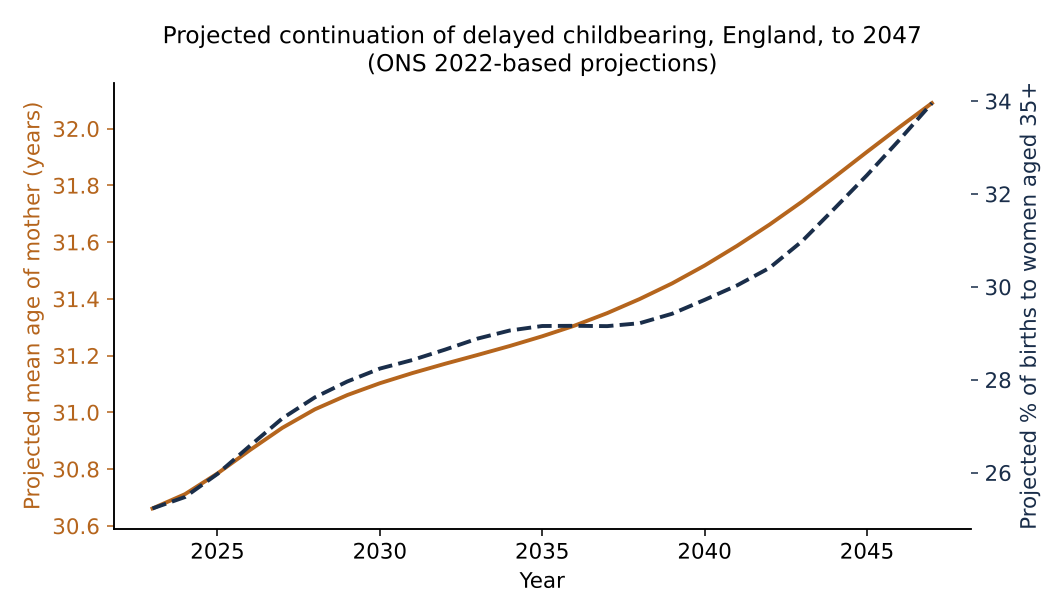
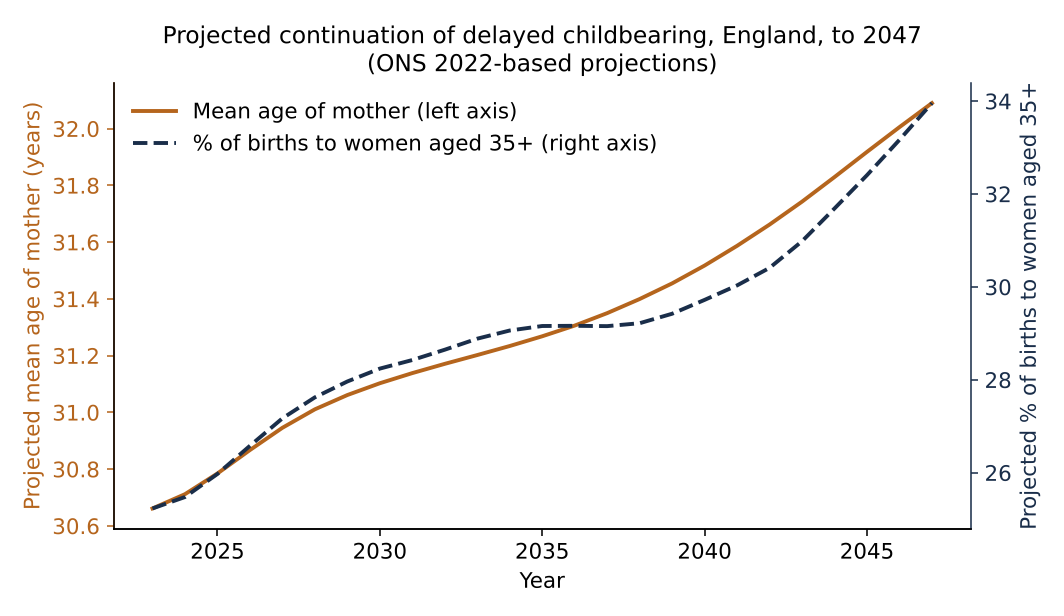
Redraw figures: full overlap shading, no text over data, show 2012-14 gap
- Fig 5 (figE): shade the whole region under both curves (pointwise minimum
  of the two lines on a fine grid). v1 joined the band minima with straight
  lines, which cut the corner where the curves cross near age 43. Adds a lower
  panel enlarging ages 20-55.
- Fig 1 (figC): the rolling-rate export has no rate for 2012-2014; break the
  line there instead of bridging it, label the gap, use whole-year ticks.
  README and methods no longer call the series gap-free.
- Figs 2, 3, 6 (figB, figA, figF): trough label and legends moved clear of
  the data and axis lines.
- Figs 6, 8 (figF, figH): right-hand axis drawn; legends list every series.
- Figs 4, 9 (figD, figI): thousands separators on count axes.
- Notebook regenerated from the script; results_all.csv unchanged.

Claude-Session: https://claude.ai/code/session_01PWS6UPa18NfWCPYvZGxfs7

Changed region(s): [[0.1241, 0.1542, 0.6203, 0.2468], [0.1241, 0.2159, 0.1551, 0.2468]]

diff --git a/convergence_analysis.py b/convergence_analysis.py
@@ -24,7 +24,9 @@
 # silently dropped all births at 40+, which made the trend overlap equal to the share of
 # cancers diagnosed under 40). Adds annual-percentage-change (APC) trend estimates, an
 # under-40 series, a decomposition of the overlap coefficient, projected births at 40+, and a
-# C54-only sensitivity analysis. See CHANGELOG.md.
+# C54-only sensitivity analysis. All figures are redrawn: no text over data, overlap shading
+# that covers the whole area under both curves, and the 2012–2014 gap in the rolling incidence
+# series shown rather than bridged. See CHANGELOG.md.
 
 # %%
 # ============================ CONFIG & IMPORTS ============================
@@ -166,8 +168,9 @@ pc_2023 = cancer_dist(2023)
 raw_2023 = cancer_counts(2023)
 assert abs(raw_2023.sum() - 9048) < 1, "2023 C54-C55 female total should reconcile to all-ages count"
 
-# Incidence trend uses NDRS 3-year rolling age-standardised rates (File 1), which are
-# gap-free; the single-year file has a missing 2012 rate (count present, rate blank).
+# Incidence trend uses NDRS 3-year rolling age-standardised rates (File 1), which smooth
+# year-to-year variation. The single-year file has no 2012 rate (count present, rate blank), and
+# the rolling file has no rate for the 2012-2014 window; Fig C shows that window as a gap.
 roll = pd.read_csv(INCIDENCE_TREND); roll.columns = [c.strip() for c in roll.columns]
 asr = roll[(roll["ICD10 code"]=="C54-C55") & (roll["Gender"]=="Females") &
            (roll["Type of rate"]=="Age-standardised")].copy()
@@ -505,28 +508,41 @@ results["Projected overlap change 2023->2047 (cancer fixed, %)"] = round(100*(at
 
 # %%
 # Fig A — maternal age distribution, England 2025
+from matplotlib.ticker import FuncFormatter
+from matplotlib.patches import Rectangle
 fig, ax = plt.subplots(figsize=(7.2,4.4))
 xr = [MIDHB[b] for b in REPRO_U50]
 ax.plot(xr, [p_all.get(b,0) for b in REPRO_U50], "-o", color=INK, lw=2, label="All births")
 ax.plot(xr, [p_first.get(b,0) for b in REPRO_U50], "-s", color=ACC, lw=2, label="First births (0 previous children)")
 ax.set_xlabel("Mother's age (band midpoint, years)"); ax.set_ylabel("Proportion of births")
-ax.set_title("Maternal age distribution, England, 2025"); ax.legend(frameon=False)
+ax.set_ylim(bottom=-0.015, top=1.32*max(max(p_all.get(b,0) for b in REPRO_U50), max(p_first.get(b,0) for b in REPRO_U50)))  # legend headroom
+ax.set_title("Maternal age distribution, England, 2025"); ax.legend(frameon=False, loc="upper left")
 fig.tight_layout(); fig.savefig(OUT_DIR/"figA_maternal_age_distribution_2025.png"); plt.close(fig)
 
-# Fig B — first-birth SMA trend (E&W)
+# Fig B — first-birth SMA trend (E&W); the trough label sits below the point, clear of the curve and axis
 fig, ax = plt.subplots(figsize=(7.2,4.4))
 ax.plot(t11ew["Year"], sma_first, color=ACC, lw=2, label="Mean age at first birth")
 ax.plot(t11ew["Year"], sma_all, color=GREY, lw=1.5, ls="--", label="Mean age, all births")
 ty=int(t11ew.loc[sma_first.idxmin(),"Year"]); tv=float(sma_first.min())
 ax.scatter([ty],[tv], color=INK, zorder=5)
-ax.annotate(f"trough {ty}: {tv:.1f}", (ty,tv), textcoords="offset points", xytext=(8,-14), fontsize=8, color=INK)
+ax.set_ylim(bottom=tv - 1.1)
+ax.annotate(f"trough {ty}: {tv:.1f} years", (ty, tv), textcoords="offset points", xytext=(0, -9),
+            ha="center", va="top", fontsize=9, color=INK)
 ax.set_xlabel("Year"); ax.set_ylabel("Standardised mean age of mother (years)")
-ax.set_title("Mean age at first birth, England & Wales, 1938–2025"); ax.legend(frameon=False)
+ax.set_title("Mean age at first birth, England & Wales, 1938–2025"); ax.legend(frameon=False, loc="upper left")
 fig.tight_layout(); fig.savefig(OUT_DIR/"figB_first_birth_age_trend.png"); plt.close(fig)
 
-# Fig C — uterine incidence ASR trend (NDRS 3-year rolling rates; gap-free)
+# Fig C — uterine incidence ASR trend (NDRS 3-year rolling rates). The 2012–2014 window has no
+# rate in the export, so the line is broken there rather than bridged.
 fig, ax = plt.subplots(figsize=(7.2,4.4))
-ax.plot(asr["mid"], asr["Rate"], "-o", color=ACC2, lw=2)
+_mids = list(range(int(asr["mid"].min()), int(asr["mid"].max()) + 1))
+_roll = asr.set_index("mid")["Rate"].reindex(_mids)
+ax.plot(_mids, _roll.values, "-o", color=ACC2, lw=2)
+for _m in _roll.index[_roll.isna()]:
+    _y = float(np.nanmean([_roll.get(_m-1, np.nan), _roll.get(_m+1, np.nan)]))
+    ax.annotate(f"{_m-1}–{str(_m+1)[2:]}\nnot available", (_m, _y), textcoords="offset points", xytext=(0, -22),
+                ha="center", va="top", fontsize=8, color="#666")
+ax.set_xticks(range(_mids[0], _mids[-1] + 1, 4))
 ax.set_xlabel("Year (midpoint of 3-year rolling window)"); ax.set_ylabel("Age-standardised rate / 100,000 women")
 ax.set_title("Uterine cancer (C54–C55) incidence, England, 2001–2023\n(3-year rolling rates)")
 fig.tight_layout(); fig.savefig(OUT_DIR/"figC_uterine_incidence_trend.png"); plt.close(fig)
@@ -535,33 +551,47 @@ fig.tight_layout(); fig.savefig(OUT_DIR/"figC_uterine_incidence_trend.png"); plt
 fig, (a1,a2) = plt.subplots(1,2, figsize=(9,4.2))
 a1.bar(["Endometrial","Non-endometrial"], [endo,nonendo], color=[INK,GREY])
 a1.set_title(f"Uterine cancer (C54–C55) by NDRS group, 2023\n(endometrial = {100*endo/all_u:.0f}% of {int(all_u):,})")
-a1.set_ylabel("Registrations")
+a1.set_ylabel("Registrations"); a1.yaxis.set_major_formatter(FuncFormatter(lambda v, _: f"{v:,.0f}"))
 a2.bar(["1","2","3","4"], [endo_stage[s] for s in ["1","2","3","4"]], color=ACC)
 a2.set_title("Endometrial cancer by stage, 2023"); a2.set_xlabel("Stage at diagnosis (TNM 8 / FIGO 2009)"); a2.set_ylabel("Registrations")
+a2.yaxis.set_major_formatter(FuncFormatter(lambda v, _: f"{v:,.0f}"))
 fig.tight_layout(); fig.savefig(OUT_DIR/"figD_endometrial_type_stage_2023.png"); plt.close(fig)
 
-# Fig E — headline overlap
-fig, ax = plt.subplots(figsize=(8,4.6))
-x=[MIDHB[b] for b in HB]; yc=[pc_2023.get(b,0) for b in HB]; yb=[p_first.get(b,0) for b in HB]
-ax.plot(x, yc, "-o", color=ACC2, lw=2, label="Uterine cancer (C54–C55), age at diagnosis (England 2023)")
-ax.plot(x, yb, "-s", color=ACC, lw=2, label="First births, mother's age (England 2025)")
-ax.fill_between(x, np.minimum(yc,yb), color=INK, alpha=0.35, label=f"Overlap (coefficient = {OVL(pc_2023,p_first):.2f})")
-ax.set_xlabel("Age (years)"); ax.set_ylabel("Proportion within distribution"); ax.set_xlim(10,95)
+# Fig E — headline overlap. The shaded area is the region under BOTH plotted curves, i.e. the
+# minimum of the two piecewise-linear curves evaluated on a fine grid (including the points where
+# they cross between band midpoints). The coefficient itself is computed on the five-year bands.
+# Lower panel: ages 20–55 enlarged, where the two distributions meet.
+fig, (ax, axz) = plt.subplots(2, 1, figsize=(8, 6.6), gridspec_kw={"height_ratios": [1.6, 1]})
+_x = np.array([MIDHB[b] for b in HB], float)
+_yc = np.array([pc_2023.get(b,0) for b in HB], float); _yb = np.array([p_first.get(b,0) for b in HB], float)
+_xd = np.linspace(_x.min(), _x.max(), 4001)
+_shared = np.minimum(np.interp(_xd, _x, _yc), np.interp(_xd, _x, _yb))
+for a in (ax, axz):
+    a.fill_between(_xd, _shared, color=INK, alpha=0.35, lw=0, label=f"Overlap (coefficient = {OVL(pc_2023,p_first):.2f})")
+    a.plot(_x, _yc, "-o", color=ACC2, lw=2, label="Uterine cancer (C54–C55), age at diagnosis (England 2023)")
+    a.plot(_x, _yb, "-s", color=ACC, lw=2, label="First births, mother's age (England 2025)")
+ax.set_xlim(10, 95); ax.set_ylabel("Proportion within distribution")
+ax.add_patch(Rectangle((20, 0), 35, 0.05, fill=False, ls=":", lw=1, ec="#666"))
 ax.set_title("Convergence of childbearing age and uterine cancer diagnosis age, England")
-ax.legend(frameon=False, fontsize=8.5)
+_h, _l = ax.get_legend_handles_labels()
+ax.legend([_h[1], _h[2], _h[0]], [_l[1], _l[2], _l[0]], frameon=False, fontsize=8.5, loc="upper right")
+axz.set_xlim(20, 55); axz.set_ylim(0, 0.05)
+axz.set_xlabel("Age (years)"); axz.set_ylabel("Proportion")
+axz.set_title("Ages 20–55 enlarged (dotted box above)", fontsize=10, pad=12)
 fig.tight_layout(); fig.savefig(OUT_DIR/"figE_overlap_headline.png"); plt.close(fig)
 
-# Fig F — overlap trend + % under 50
+# Fig F — overlap trend + % under 50 (right axis), all three series in one legend
 fig, ax = plt.subplots(figsize=(7.6,4.4))
-ax.plot(YEARS, ovl_all, "-o", color=INK, lw=2, label="Overlap with all births (E&W, per year)")
-ax.plot(YEARS, ovl_firstfixed, "-^", color=GREY, lw=1.6, label="Overlap with first births (England 2025, fixed)")
-ax.set_xlabel("Diagnosis year"); ax.set_ylabel("Overlap coefficient"); ax.legend(frameon=False, fontsize=8.5)
-ax2=ax.twinx(); ax2.spines["top"].set_visible(False)
-ax2.plot(YEARS, pct_u50, color=ACC, lw=1.6, ls=":")
+_l1, = ax.plot(YEARS, ovl_all, "-o", color=INK, lw=2, label="Overlap with all births (E&W, each year)")
+_l2, = ax.plot(YEARS, ovl_firstfixed, "-^", color=GREY, lw=1.6, label="Overlap with first births (England 2025, held fixed)")
+ax.set_xlabel("Diagnosis year"); ax.set_ylabel("Overlap coefficient")
+ax2=ax.twinx(); ax2.spines["top"].set_visible(False); ax2.spines["right"].set_visible(True); ax2.spines["right"].set_color(ACC)
+_l3, = ax2.plot(YEARS, pct_u50, color=ACC, lw=1.6, ls=":", label="% of uterine cancers diagnosed under 50 (right axis)")
 ax2.set_ylabel("% of uterine cancers diagnosed under 50", color=ACC); ax2.tick_params(axis="y", colors=ACC)
 _lo = min(min(ovl_all), min(ovl_firstfixed)); _hi = max(max(ovl_all), max(ovl_firstfixed))
-ax.set_ylim(_lo - 0.05*(_hi-_lo), _hi + 0.45*(_hi-_lo))            # headroom for the legend
-ax2.set_ylim(min(pct_u50) - 0.05*(max(pct_u50)-min(pct_u50)), max(pct_u50) + 0.45*(max(pct_u50)-min(pct_u50)))
+ax.set_ylim(_lo - 0.05*(_hi-_lo), _hi + 0.55*(_hi-_lo))            # headroom for the legend
+ax2.set_ylim(min(pct_u50) - 0.05*(max(pct_u50)-min(pct_u50)), max(pct_u50) + 0.55*(max(pct_u50)-min(pct_u50)))
+ax.legend([_l1, _l2, _l3], [_l1.get_label(), _l2.get_label(), _l3.get_label()], frameon=False, fontsize=8.5, loc="upper left")
 ax.set_title("Trend in cancer–childbearing age overlap, England 2001–2023")
 fig.tight_layout(); fig.savefig(OUT_DIR/"figF_overlap_trend.png"); plt.close(fig)
 
@@ -572,16 +602,17 @@ ax.plot(YEARS, cnt_u45, "-s", color=ACC, lw=2, label="Diagnosed under 45")
 ax.plot(YEARS, cnt_u40, "-^", color=INK, lw=2, label="Diagnosed under 40")
 ax.set_xlabel("Diagnosis year"); ax.set_ylabel("Annual registrations (England)")
 ax.set_title("Uterine cancer (C54–C55) in reproductive-age women, England 2001–2023")
-ax.legend(frameon=False); fig.tight_layout(); fig.savefig(OUT_DIR/"figG_reproductive_age_counts.png"); plt.close(fig)
+ax.legend(frameon=False, loc="upper left"); fig.tight_layout(); fig.savefig(OUT_DIR/"figG_reproductive_age_counts.png"); plt.close(fig)
 
-# Fig H — projection: mean maternal age + share of births to women 35+
+# Fig H — projection: mean maternal age (left axis) + share of births to women 35+ (right axis)
 fig, ax = plt.subplots(figsize=(7.6,4.4))
-ax.plot(proj_years_int, proj_mage, color=ACC, lw=2)
+_l1, = ax.plot(proj_years_int, proj_mage, color=ACC, lw=2, label="Mean age of mother (left axis)")
 ax.set_xlabel("Year"); ax.set_ylabel("Projected mean age of mother (years)", color=ACC)
-ax.tick_params(axis="y", colors=ACC)
-ax2=ax.twinx(); ax2.spines["top"].set_visible(False)
-ax2.plot(proj_years_int, [100*s for s in proj_share35], color=INK, lw=2, ls="--")
+ax.tick_params(axis="y", colors=ACC); ax.spines["left"].set_color(ACC)
+ax2=ax.twinx(); ax2.spines["top"].set_visible(False); ax2.spines["right"].set_visible(True); ax2.spines["right"].set_color(INK)
+_l2, = ax2.plot(proj_years_int, [100*s for s in proj_share35], color=INK, lw=2, ls="--", label="% of births to women aged 35+ (right axis)")
 ax2.set_ylabel("Projected % of births to women aged 35+", color=INK); ax2.tick_params(axis="y", colors=INK)
+ax.legend([_l1, _l2], [_l1.get_label(), _l2.get_label()], frameon=False, loc="upper left")
 ax.set_title("Projected continuation of delayed childbearing, England, to 2047\n(ONS 2022-based projections)")
 fig.tight_layout(); fig.savefig(OUT_DIR/"figH_projection_demographic.png"); plt.close(fig)
 
@@ -589,9 +620,10 @@ fig.tight_layout(); fig.savefig(OUT_DIR/"figH_projection_demographic.png"); plt.
 fig, ax = plt.subplots(figsize=(7.6,4.4))
 ax.plot(proj_years_int, proj_cnt35, "-o", color=ACC2, lw=2, label="Births to women aged 35+")
 ax.plot(proj_years_int, proj_cnt40, "-s", color=ACC, lw=2, label="Births to women aged 40+")
+ax.yaxis.set_major_formatter(FuncFormatter(lambda v, _: f"{v:,.0f}"))
 ax.set_xlabel("Year"); ax.set_ylabel("Projected annual births (England)")
 ax.set_title("Projected childbearing in the endometrial-cancer risk window, England")
-ax.legend(frameon=False); fig.tight_layout(); fig.savefig(OUT_DIR/"figI_projection_counts.png"); plt.close(fig)
+ax.legend(frameon=False, loc="upper left"); fig.tight_layout(); fig.savefig(OUT_DIR/"figI_projection_counts.png"); plt.close(fig)
 
 # %% [markdown]
 # ## 8. Save results table

diff --git a/methods.md b/methods.md
@@ -12,7 +12,7 @@ We conducted a population-level descriptive and projection study for England, qu
 
 ## Data sources
 
-**Uterine cancer incidence by age.** Female cancer registrations for England, 2001–2023, were obtained from the National Disease Registration Service (NDRS) CancerData incidence tool, disaggregated by single diagnosis year, sex, five-year age band, and three-character ICD-10 site. The primary disease definition was ICD-10 **C54–C55**; corpus uteri alone (C54) was analysed as a sensitivity analysis. Counts by age band reconcile exactly to the published all-ages totals (for example, 9,048 female C54–C55 registrations in 2023). The incidence-trend figure uses the NDRS three-year rolling age-standardised rates (which are gap-free), whereas all age-resolved analyses use single-year registrations; the single-year rates for 2012 are absent from the export (the counts are present), which is why the rolling series is used for the trend figure.
+**Uterine cancer incidence by age.** Female cancer registrations for England, 2001–2023, were obtained from the National Disease Registration Service (NDRS) CancerData incidence tool, disaggregated by single diagnosis year, sex, five-year age band, and three-character ICD-10 site. The primary disease definition was ICD-10 **C54–C55**; corpus uteri alone (C54) was analysed as a sensitivity analysis. Counts by age band reconcile exactly to the published all-ages totals (for example, 9,048 female C54–C55 registrations in 2023). The incidence-trend figure uses the NDRS three-year rolling age-standardised rates, which smooth year-to-year variation, whereas all age-resolved analyses use single-year registrations, which are complete for every year. The export gives no age-standardised rate for the single year 2012 or for the 2012–2014 rolling window (the counts are present), so the incidence-trend figure shows 2012–2014 as a gap rather than drawing a line across it, and the all-ages APC (below) omits 2012.
 
 **Endometrial group and stage.** Because the age-banded export is provided for all stages combined, the composition by NDRS group and the stage distribution were taken from the NDRS machine-readable cancer-registration tables for 2023 (Table 1, incidence by NDRS group), which separates "Uterus – endometrial" from "Uterus – non-endometrial" and gives stage at diagnosis. NDRS assigns these groups from tumour morphology; the endometrial group comprises endometrial carcinomas of all histological types (not only endometrioid), and the non-endometrial group (3.4%) is consistent in size with the approximately 3% of uterine cancers that are sarcomas. Stage is as registered by NDRS, using the TNM 8th edition (which, for carcinoma of the corpus uteri, corresponds to FIGO 2009 staging), the version applied to diagnoses up to 31 December 2025. These data are all-ages.
 
@@ -29,6 +29,8 @@ The cancer and childbearing distributions were placed on a common set of five-ye
 For each comparison we computed the overlap coefficient between the age density of cancer diagnoses, *f*c(a), and the age density of births, *f*b(a), defined on the shared harmonised bands as the sum over bands of the band-wise minimum, Σ min(*f*c, *f*b). This is the standard distributional overlap measure (range 0–1; 0 = disjoint, 1 = identical) and is the metric used in the analogous breast-cancer "collision" analysis. The headline comparison was the 2023 cancer distribution against the 2025 first-birth distribution (both England). The temporal trend, 2001–2023, used the all-births age distribution available for every year (England and Wales, Table 10) as the childbearing comparator, because a first-birth age distribution is not published England-only for the full back-series; a second series held the 2025 first-birth distribution fixed so that only the cancer side varied.
 
 **Interpretation.** In every band below age 45 a smaller percentage of all cancers than of all births falls in the band, so the band-wise minimum is the cancer percentage; from 45 upwards the minimum is the birth percentage. The coefficient is therefore, in practice, the share of cancers diagnosed at ages 15–44 plus the small share of births at 45 and over. For 2023 against 2025 first births this is 0.0439 + 0.0041 = 0.048. This is why the coefficient responds to changes in the age at which cancers are diagnosed but hardly at all to further postponement of births.
+
+**Overlap figure.** Each distribution is drawn as its band proportions joined at the band midpoints. The shaded area is the region beneath both curves, that is, the pointwise minimum of the two lines evaluated on a fine age grid, so it includes the small triangle where the curves cross between band midpoints (near age 43). It illustrates the overlap; the coefficient itself is the band sum defined above. A lower panel enlarges ages 20–55, where the two distributions meet.
 
 ## Reproductive-age burden and pace of change
 

diff --git a/README.md b/README.md
@@ -10,9 +10,10 @@ age distribution of childbearing in England, 2001–2023, with a forward project
 
 Repository: https://github.com/comparativechrono/ec-childbearing-convergence-england
 
-**Version 2 (October 2026).** Corrects an error in version 1's all-births trend comparator
-and adds trend statistics and sensitivity analyses — see `CHANGELOG.md`. All other v1
-figures and numbers are unchanged.
+**Version 2 (October 2026).** Corrects an error in version 1's all-births trend comparator,
+adds trend statistics and sensitivity analyses, and redraws the figures (no text over data,
+full overlap shading, the 2012–2014 gap in the incidence series shown) — see `CHANGELOG.md`.
+All other v1 numbers are unchanged.
 
 ## How to run
 
@@ -35,7 +36,7 @@ with Python 3.13, pandas 3.0, NumPy 2.5, Matplotlib 3.11, SciPy 1.18 and openpyx
 | file | description | source |
 |---|---|---|
 | `Incidence_National_ICD10_byage_singleyear.csv` | Uterine cancer incidence by ICD-10, sex, 5-year age band, single years, England, 2001–2023 (age-distribution, overlap and trend work; the all-cancer rows supply the female population denominators) | NDRS CancerData dashboard export — https://digital.nhs.uk/ndrs/data/data-outputs/cancerdata |
-| `Incidence_National_ICD10_allages_rolling3yr.csv` | Uterine cancer incidence, all ages, NDRS 3-year rolling age-standardised rates, England, 2001–2023 (incidence-trend figure; gap-free) | NDRS CancerData dashboard export — https://digital.nhs.uk/ndrs/data/data-outputs/cancerdata |
+| `Incidence_National_ICD10_allages_rolling3yr.csv` | Uterine cancer incidence, all ages, NDRS 3-year rolling age-standardised rates, England, 2001–2023 (incidence-trend figure; the export has no rate for the 2012–2014 window) | NDRS CancerData dashboard export — https://digital.nhs.uk/ndrs/data/data-outputs/cancerdata |
 | `Cancer_registrations_2023_machine_readable_files.zip` | NHS cancer registration statistics, England 2023 (Table 1 = endometrial vs non-endometrial × stage) | NHS Digital / NDRS — https://files.digital.nhs.uk/16/5B8561/Cancer_registrations_2023_machine_readable_files.zip |
 | `2025birthregistrations.xlsx` | ONS Births in England and Wales: birth registrations, 2025 edition (Tables 2, 4, 10, 11) | ONS — birthsinenglandandwalesbirthregistrations/2025 |
 | `2022_SNPP_Births_persons.csv` | ONS 2022-based subnational projections, births by age of mother (all babies) | ONS — birthsbyageofmotherz3 (2022 SNPP, migration-category variant) |
@@ -47,9 +48,11 @@ layout; the loader auto-detects ONS header rows.
 
 - **figA** maternal age distribution (all vs first births), England 2025
 - **figB** mean age at first birth, England & Wales, 1938–2025
-- **figC** uterine cancer (C54–C55) incidence trend, England, 2001–2023
+- **figC** uterine cancer (C54–C55) incidence trend, England, 2001–2023 (3-year rolling rates;
+  the 2012–2014 window has no published rate and is shown as a gap)
 - **figD** endometrial vs non-endometrial composition and stage (TNM 8 / FIGO 2009), 2023
-- **figE** headline overlap: cancer diagnosis age vs first-birth age (shaded overlap)
+- **figE** headline overlap: cancer diagnosis age vs first-birth age (shaded area under both
+  curves; lower panel enlarges ages 20–55)
 - **figF** overlap trend 2001–2023 and % of uterine cancers diagnosed under 50
 - **figG** reproductive-age registrations (under 40 / 45 / 50), 2001–2023
 - **figH** forward projection: mean maternal age and % births to women 35+, to 2047

diff --git a/CHANGELOG.md b/CHANGELOG.md
@@ -32,13 +32,37 @@
   previously quoted 31.0, which was the England banded mean) and the 2018 under-40 count
   (157), so that every number quoted in the manuscript appears in `results_all.csv`.
 
-### Presentation
-- Figure labels use "uterine cancer (C54–C55)" for registry data and state the staging system
-  (TNM 8th edition / FIGO 2009) in figD.
-- Figure 6 (figF): y-axis headroom so the legend no longer overlaps the data.
+### Figures (all nine redrawn)
+Apart from the corrected trend series and the added under-40 series (above), the plotted data
+are unchanged.
+
+- **Overlap figure (Fig 5 / figE).** The shading now covers the whole area under both curves.
+  In v1 the shading joined the band-wise minima at the band midpoints with straight lines;
+  between 42 and 47 years, where the two curves cross, that line cut the corner and left part
+  of the shared area unshaded. The shading is now the pointwise minimum of the two plotted
+  lines on a fine age grid. A lower panel enlarges ages 20–55, where the distributions meet.
+  The coefficient (computed on the five-year bands) is unchanged.
+- **Incidence trend (Fig 1 / figC).** The NDRS rolling-rate export has no rate for the
+  2012–2014 window. v1 drew a straight line from 2011–2013 to 2013–2015, and the manuscript,
+  README and methods called the series "gap-free". The line is now broken and the gap is
+  labelled. The x-axis shows whole years (v1 showed 2002.5, 2005.0, …).
+- **No text over data.** Every figure was checked for text (titles, labels, tick labels,
+  legends, annotations) touching data lines, markers, shading, bars, axis lines, other text or
+  the figure edge. Two overlaps in v1 are fixed:
+  - the Fig 2 / figB trough label crossed the x-axis line; it now sits below the point, clear of
+    the curve and the axis;
+  - the Fig 6 / figF legend crossed the dotted under-50 series; y-axis headroom was added.
+
+  Legends now sit in fixed positions with clear space, rather than being placed
+  automatically. The Fig 3 / figA legend moves above the curves.
+- **Two-axis figures (Figs 6 and 8 / figF and figH).** The right-hand axis is drawn and
+  coloured to match its series. The legend lists every series and says which axis it uses;
+  Fig 8 previously had no legend.
+- **Labels.** Registry data are labelled "uterine cancer (C54–C55)". figD states the staging
+  system (TNM 8th edition / FIGO 2009). Count axes have thousands separators (figD, figI).
 - Figure font pinned to DejaVu Sans (bundled with matplotlib, and the font the v1 figures
-  were drawn in) so figures render identically across environments. Figures whose content
-  did not change (A, B, C, H, I) differ from v1 only by sub-pixel layout differences between
-  matplotlib versions.
+  were drawn in) so figures render identically across environments.
+
+### Other
 - Stale file names in the script header corrected.
 - The notebook is regenerated from the script (cell-for-cell identical code).
